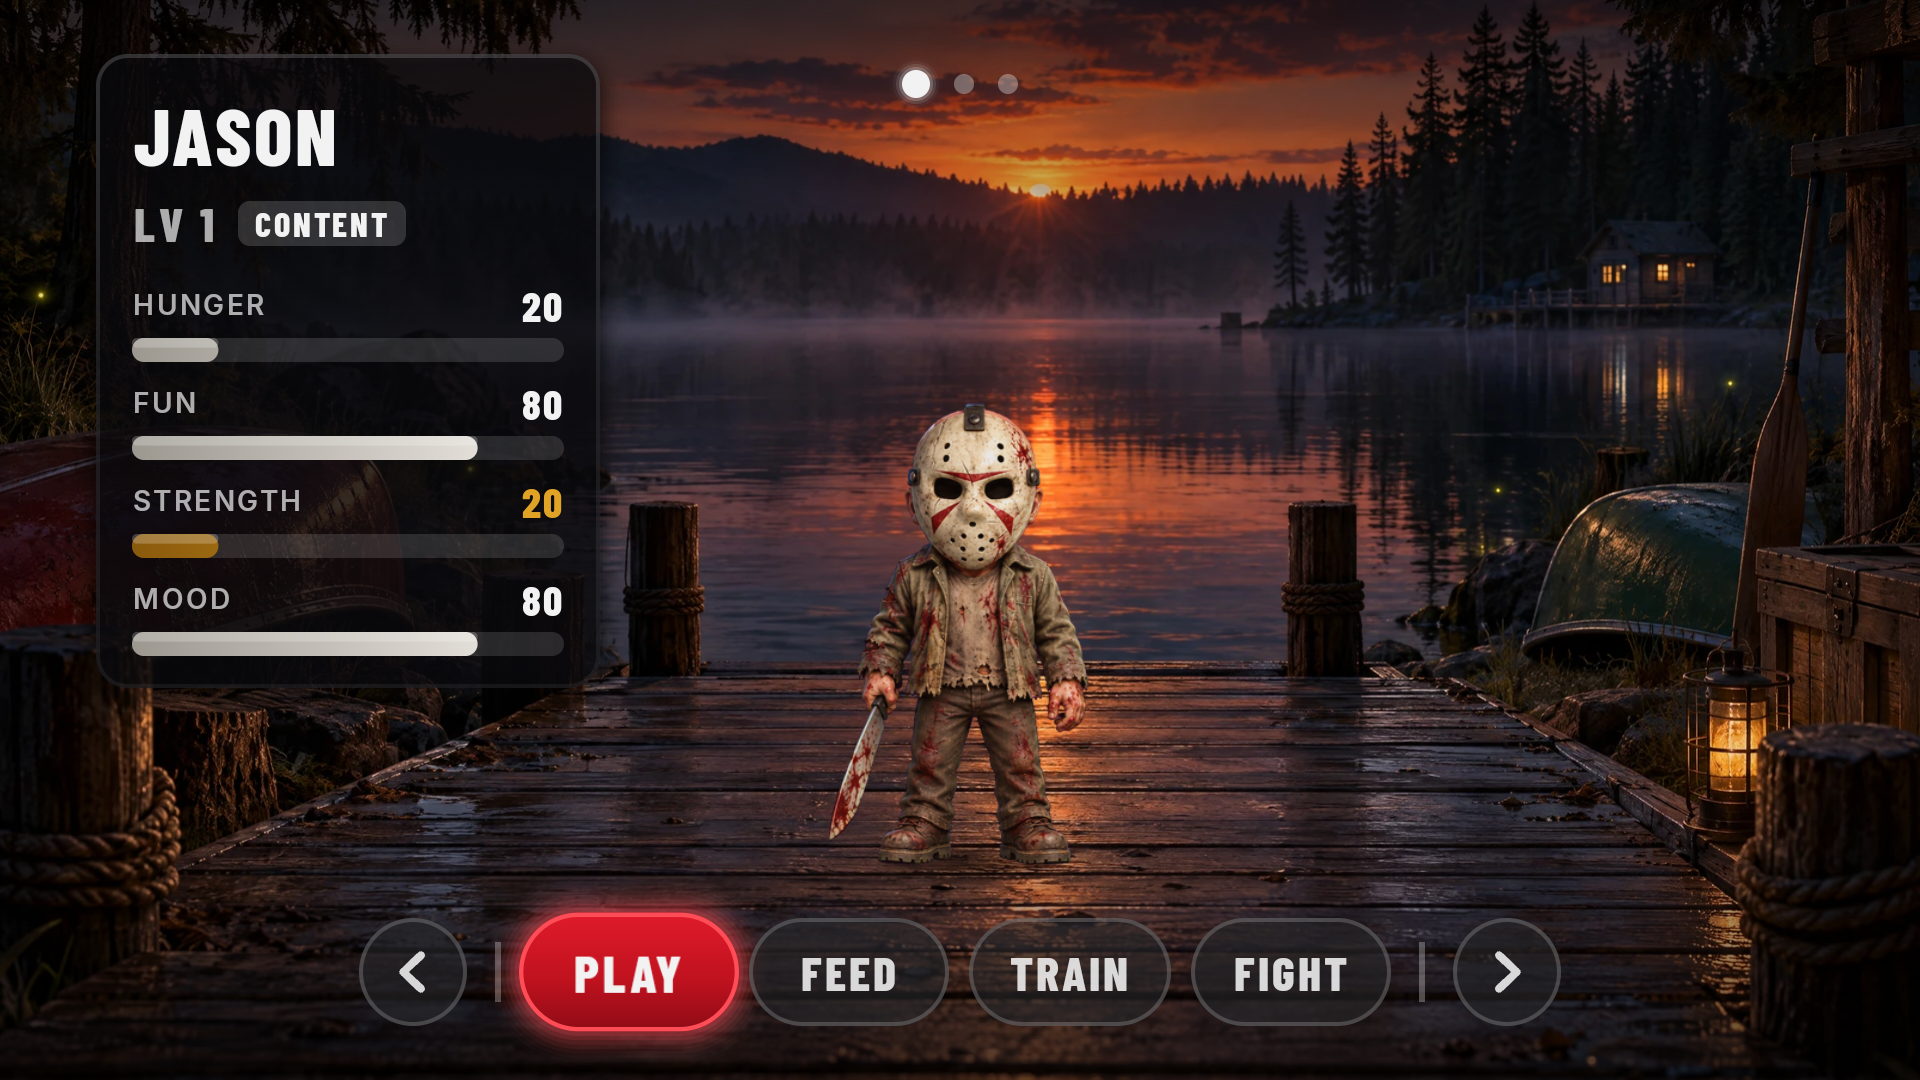
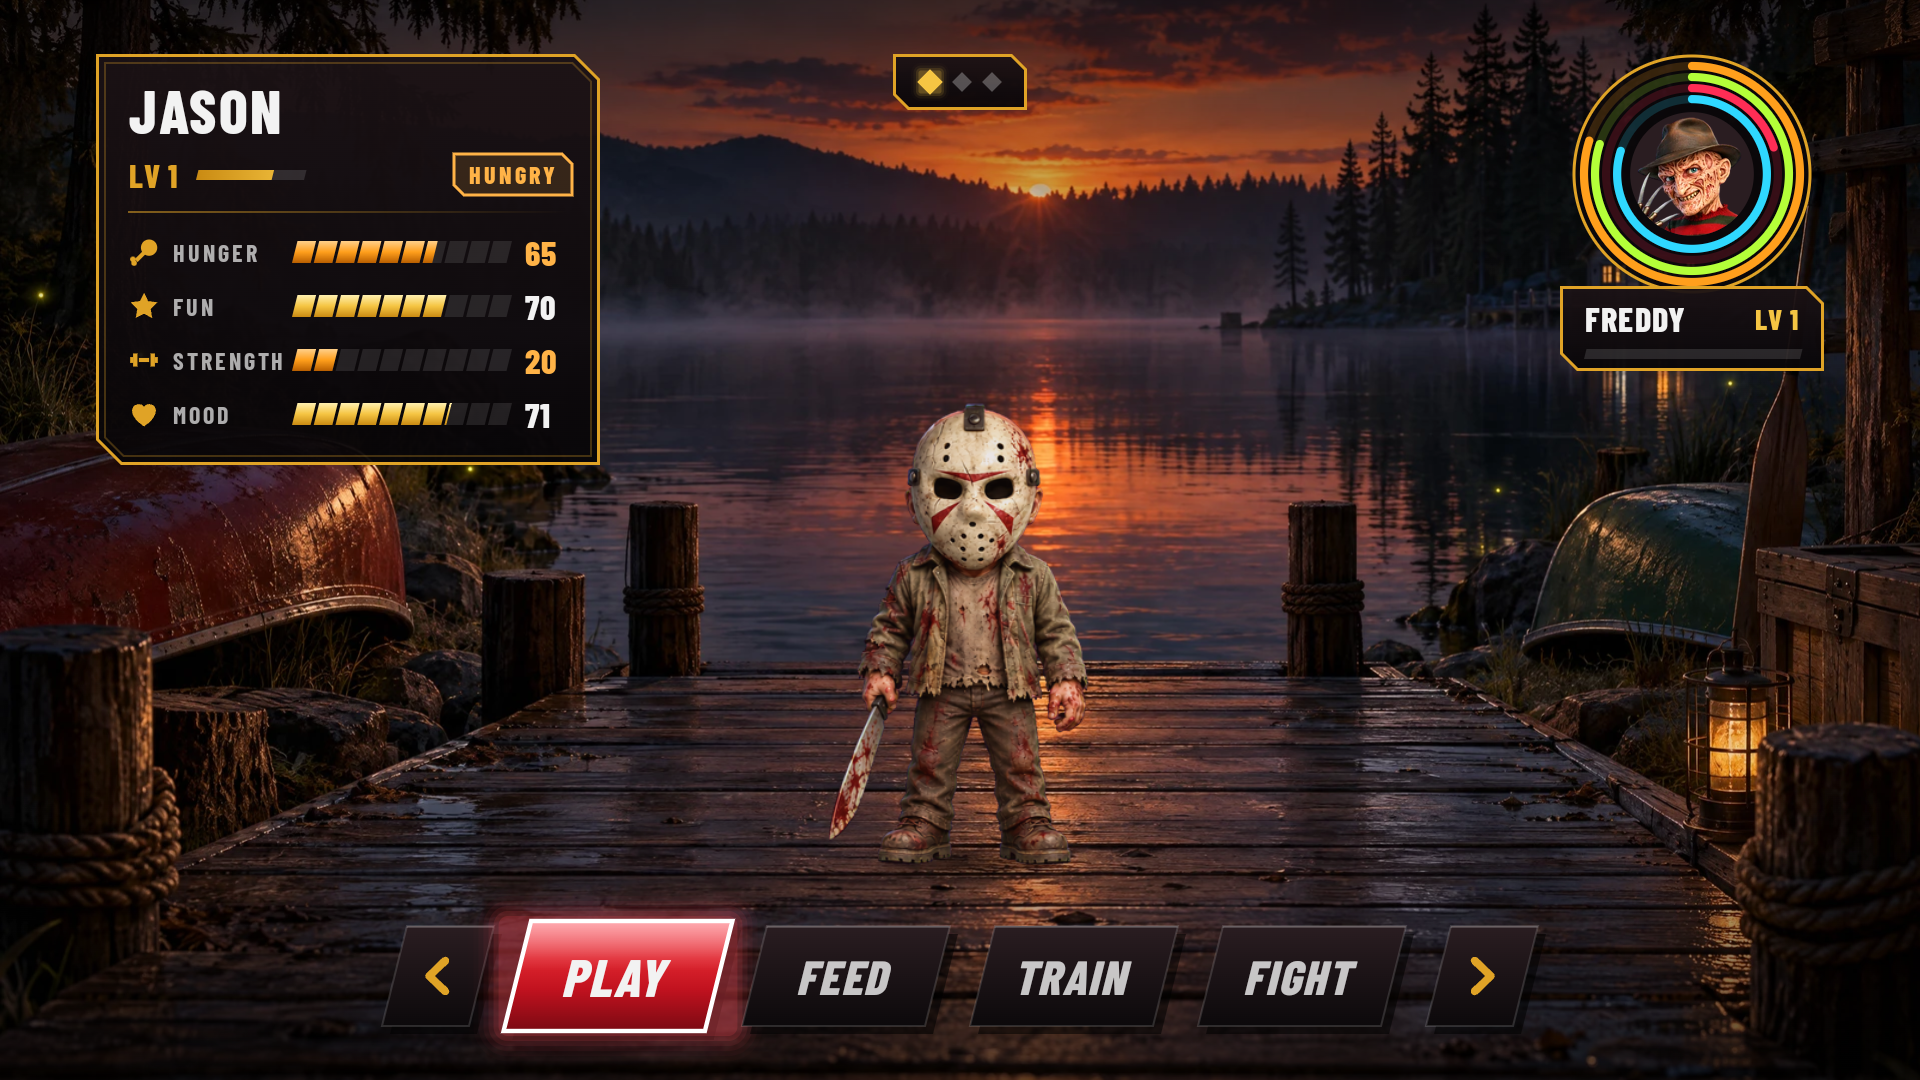
docs(readme): the start screen, the stable and unlocking, with new screenshots

diff --git a/README.md b/README.md
@@ -5,24 +5,30 @@
 # Virtual Pet Slasher 2 Turbo
 
 Virtual pets from your favorite horror films, right on your TV. It is a Tamagotchi for the living room:
-seven chibi slasher icons live on your Android TV, and you feed them, play with them, train them and make
-them fight. Everything runs offline, with a D-pad remote and nothing else.
+you start with one chibi slasher icon, feed it, play with it, train it and make it fight, and every killer you
+beat joins your stable, until all seven live on your Android TV. Everything runs offline, with a D-pad remote and
+nothing else.
 
 <p align="center">
-  <img src="docs/screenshot.png" alt="Jason on the Camp Crystal Lake dock, with his stat card and the Play, Feed, Train and Fight buttons" width="49%">
-  <img src="docs/fight.png" alt="A VS fight in the attic: Jason against Pinhead, with a critical hit" width="49%">
+  <img src="docs/screenshot.png" alt="Jason on the Camp Crystal Lake dock: his status window top left, Freddy in the stable badge top right, and the Play, Feed, Train and Fight slabs" width="49%">
+  <img src="docs/fight.png" alt="A VS fight outside Freddy's house: Jason against Freddy on turn 2, with the command window on the left" width="49%">
 </p>
 
 ## Features
 
-- **Seven killers:** Jason, Freddy, Pinhead, Ghostface, Chucky, Michael and Leatherface, each with its own stats, three scenes from its movie, music, a fight passive and a signature special. Pick yours from a spotlight carousel. The newest, Leatherface, revs his Chainsaw passive (his heavy hits land 20% harder) and, for his special, the Saw Dance: he does his chainsaw dance while blades and sparks whirl around his opponent. Hit Play on Home and he dances for you too.
+- **Seven killers:** Jason, Freddy, Pinhead, Ghostface, Chucky, Michael and Leatherface, each with its own stats, three scenes from its movie, music, a fight passive and a signature special. The newest, Leatherface, revs his Chainsaw passive (his heavy hits land 20% harder) and, for his special, the Saw Dance: he does his chainsaw dance while blades and sparks whirl around his opponent. Hit Play on Home and he dances for you too.
+- **Press start, pick one:** every launch opens on the title screen. A new game starts with one killer of your
+  choice from a spotlight carousel; the rest are locked.
+- **Unlock your stable:** beat a locked killer in a fight and it is UNLOCKED, joining your stable. Once you have
+  more than one, the others take turns in the top-right corner of Home, their heads ringed by Fed, Fun, Strength
+  and Mood; open the stable there (or with the remote's Menu key) to go see any of them.
 - **Real-time care:** Hunger, Fun, Strength and Mood keep moving while you are away. Play, feed and train to keep them happy.
 - **Playtime:** your big cartoon glove comes in to tickle, poke, dangle keys over or pick up and shake your killer, with baby talk to match.
 - **Feeding time:** a snack whistles down from the sky (meat on the bone, a turkey leg, canned spinach, a cake with a knife in it, popcorn or a jello brain) and gets munched, bite by bite.
 - **Fake death:** leave a pet alone for a week and you get a tombstone and "R.I.P.". Then: "GOTCHA. NEVER DIES."
-- **VS fights:** turn-based, Street-Fighter-style bouts with crits, blocks and specials, called by a shouting arena announcer who reacts to the big moments. Win XP, level up.
+- **VS fights:** turn-based, Street-Fighter-style bouts picked from an RPG command window, with crits, blocks and specials, called by a shouting arena announcer who reacts to the big moments. Win XP, level up.
 - **Made for TVs:** 16:9 and 4:3, remote-only controls, Android 5.1 and up (Google TV, Onn, Fire TV, Android TV).
-- **Plays on phones too:** the same APK, in landscape, with touch. Tap the buttons and the stat card, swipe
+- **Plays on phones too:** the same APK, in landscape, with touch. Tap the buttons and the stable badge, swipe
   left or right to walk between scenes, tap or swipe through the pet lineup (tap the pet in the spotlight to
   pick it), tap to skip the VS card. The back gesture works like the remote's Back.
   ([On a phone](docs/touch/phone-home.jpg).)
